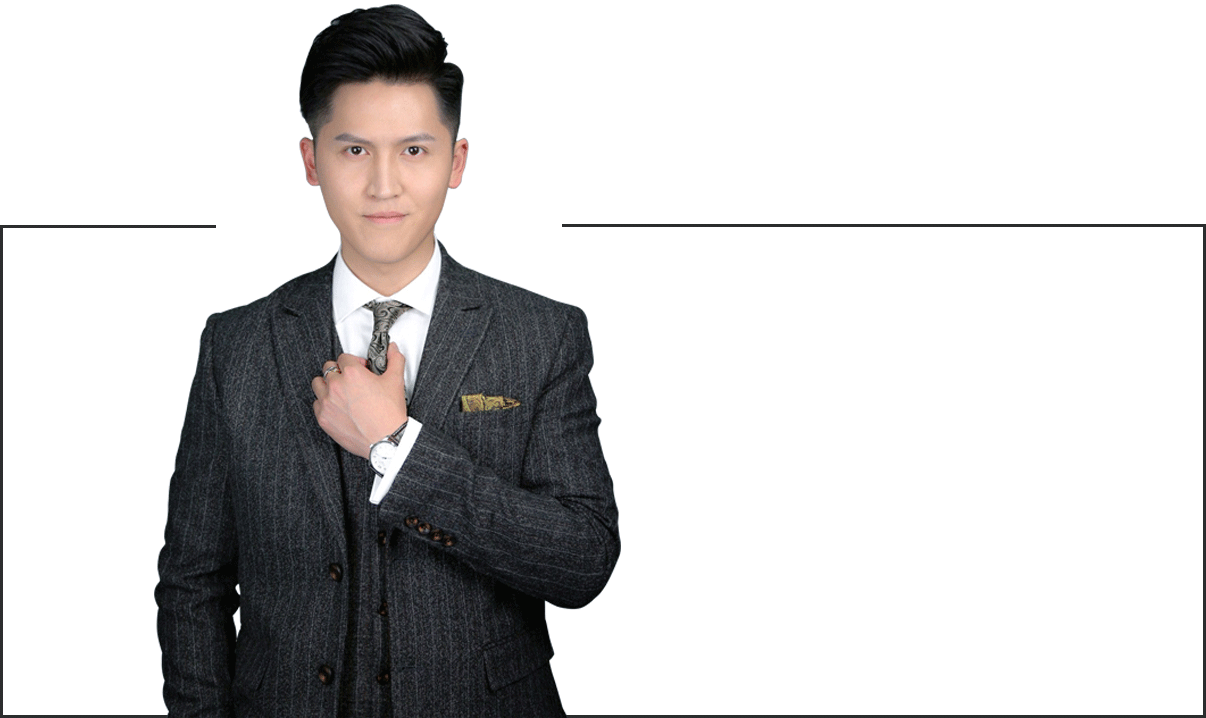
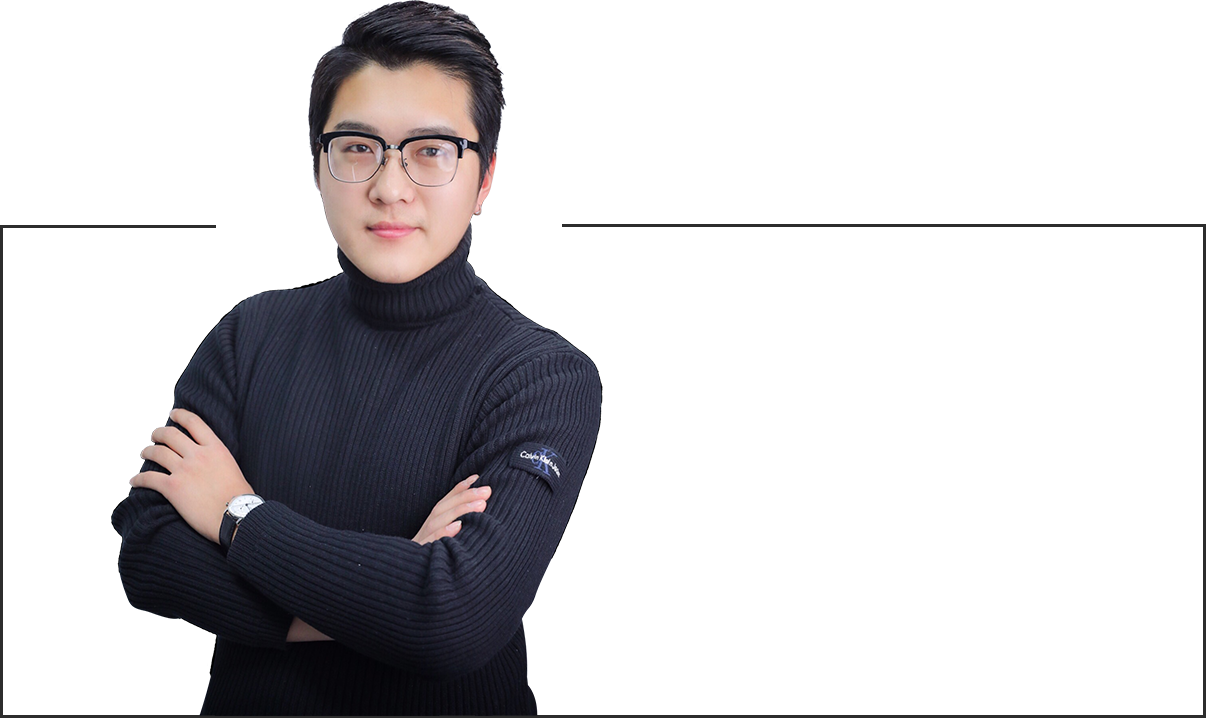
首页轮播图模块将嘉伟导师图片替换位诺亚，并更新对应的说明文字;

Changed region(s): [[0.092, 0.0, 0.5216, 1.0]]

diff --git a/index.html b/index.html
@@ -336,11 +336,10 @@
 							<div class="swiper-slide">
 								<img src="img/index/1.png" alt="橘子情感导师--嘉伟">
 								<div class="txt text-left">
-									<div class="name mentorName mentor001">嘉伟</div>
-									<div class="info">橘子情感创始人、首席主导师</div>
+									<div class="name mentorName mentor001">诺亚</div>
+									<div class="info">狙击挽回实战专家，行为干预资深导师</div>
 									<div class="des">
-										导师寄语：每一段真挚的感情，都值得被祝福；感情中最可怕不是不爱了，
-										而是爱错了方式，让双方抱憾终生。
+										爱是一门艺术，爱是两个人一起成长，互相了解和交流，爱才会深远留长
 									</div>
 									<div class="button_base b06_skewed_slide_in" onclick="window.open('./views/page1.html')">
 										<div>了解导师</div>

diff --git a/js/common.js b/js/common.js
@@ -6,7 +6,7 @@
 	 * 动态更新导师姓名
 	*/
 	var mentors = {
-	  mentor001: '嘉伟',
+	  mentor001: '诺亚',
 		mentor002: '茉言',
 		mentor003: '阿苏',
 		mentor004: '子叶',
